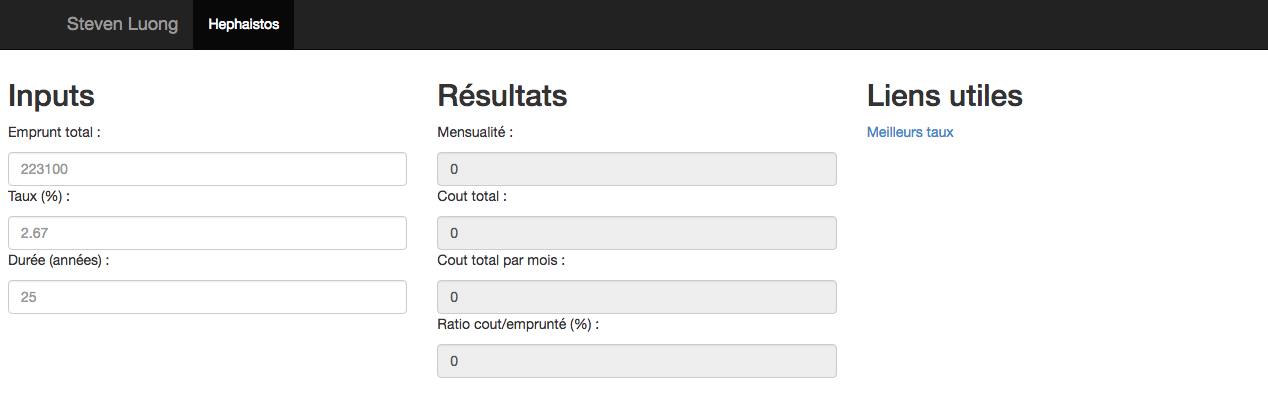
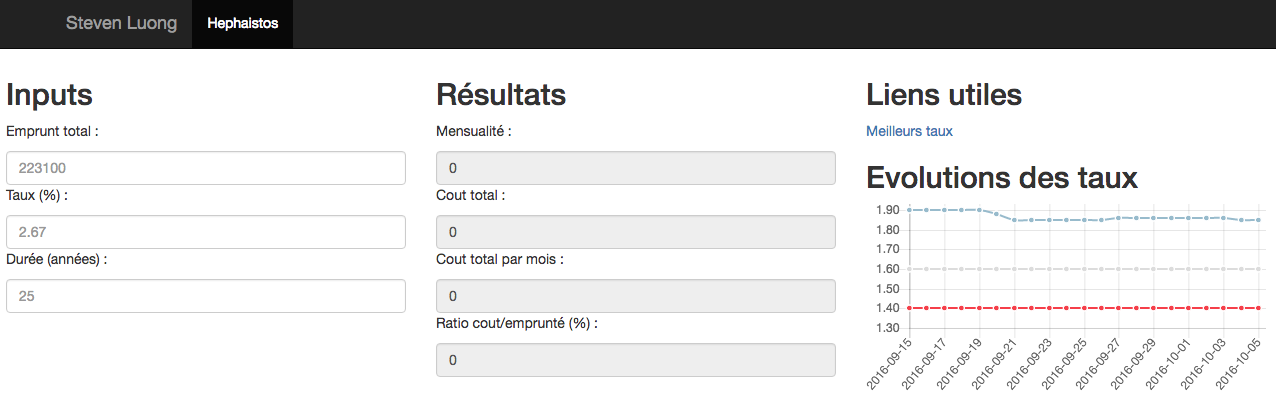
hephaistos ref updated

diff --git a/apps.html b/apps.html
@@ -88,7 +88,13 @@
                             <a href="http://slapps.fr/hephaistos"><img src="images/hephaistosScreen.png" style="width:220px;margin-top:30px"/></a>
                         </div>
                         <div class="col-md-6">
-                            <h2><a href="http://slapps.fr/hephaistos">Slapps Hephaistos</a> <br/> <small>Simulateur de prêt simplifié</small></h2>
+                            <h2><a href="http://slapps.fr/hephaistos">Slapps Hephaistos</a> <br/> <small>Simple Loan Simulator</small></h2>
+                            <p>Small app scrapping data (mortgage rates in Paris) from <a href="http://www.meilleurtaux.com/">www.meilleurtaux.com</a> and proposing a simple loan simulator
+                            <br/>
+                            Built on top of Node.js, Angular.js, ROR, <a href="https://github.com/ruipgil/scraperjs">Scrapper.js</a> and <a href="http://www.chartjs.org/">Chart.js</a> 
+                            <br/>
+                            Source available on <a href="https://github.com/stevenluong/hephaistos">Github</a> </p>
+                            </p>
                         </div>
                     </div>
 

diff --git a/perso.html b/perso.html
@@ -1,1 +1,1 @@
-85.68.136.217
+82.237.72.55
